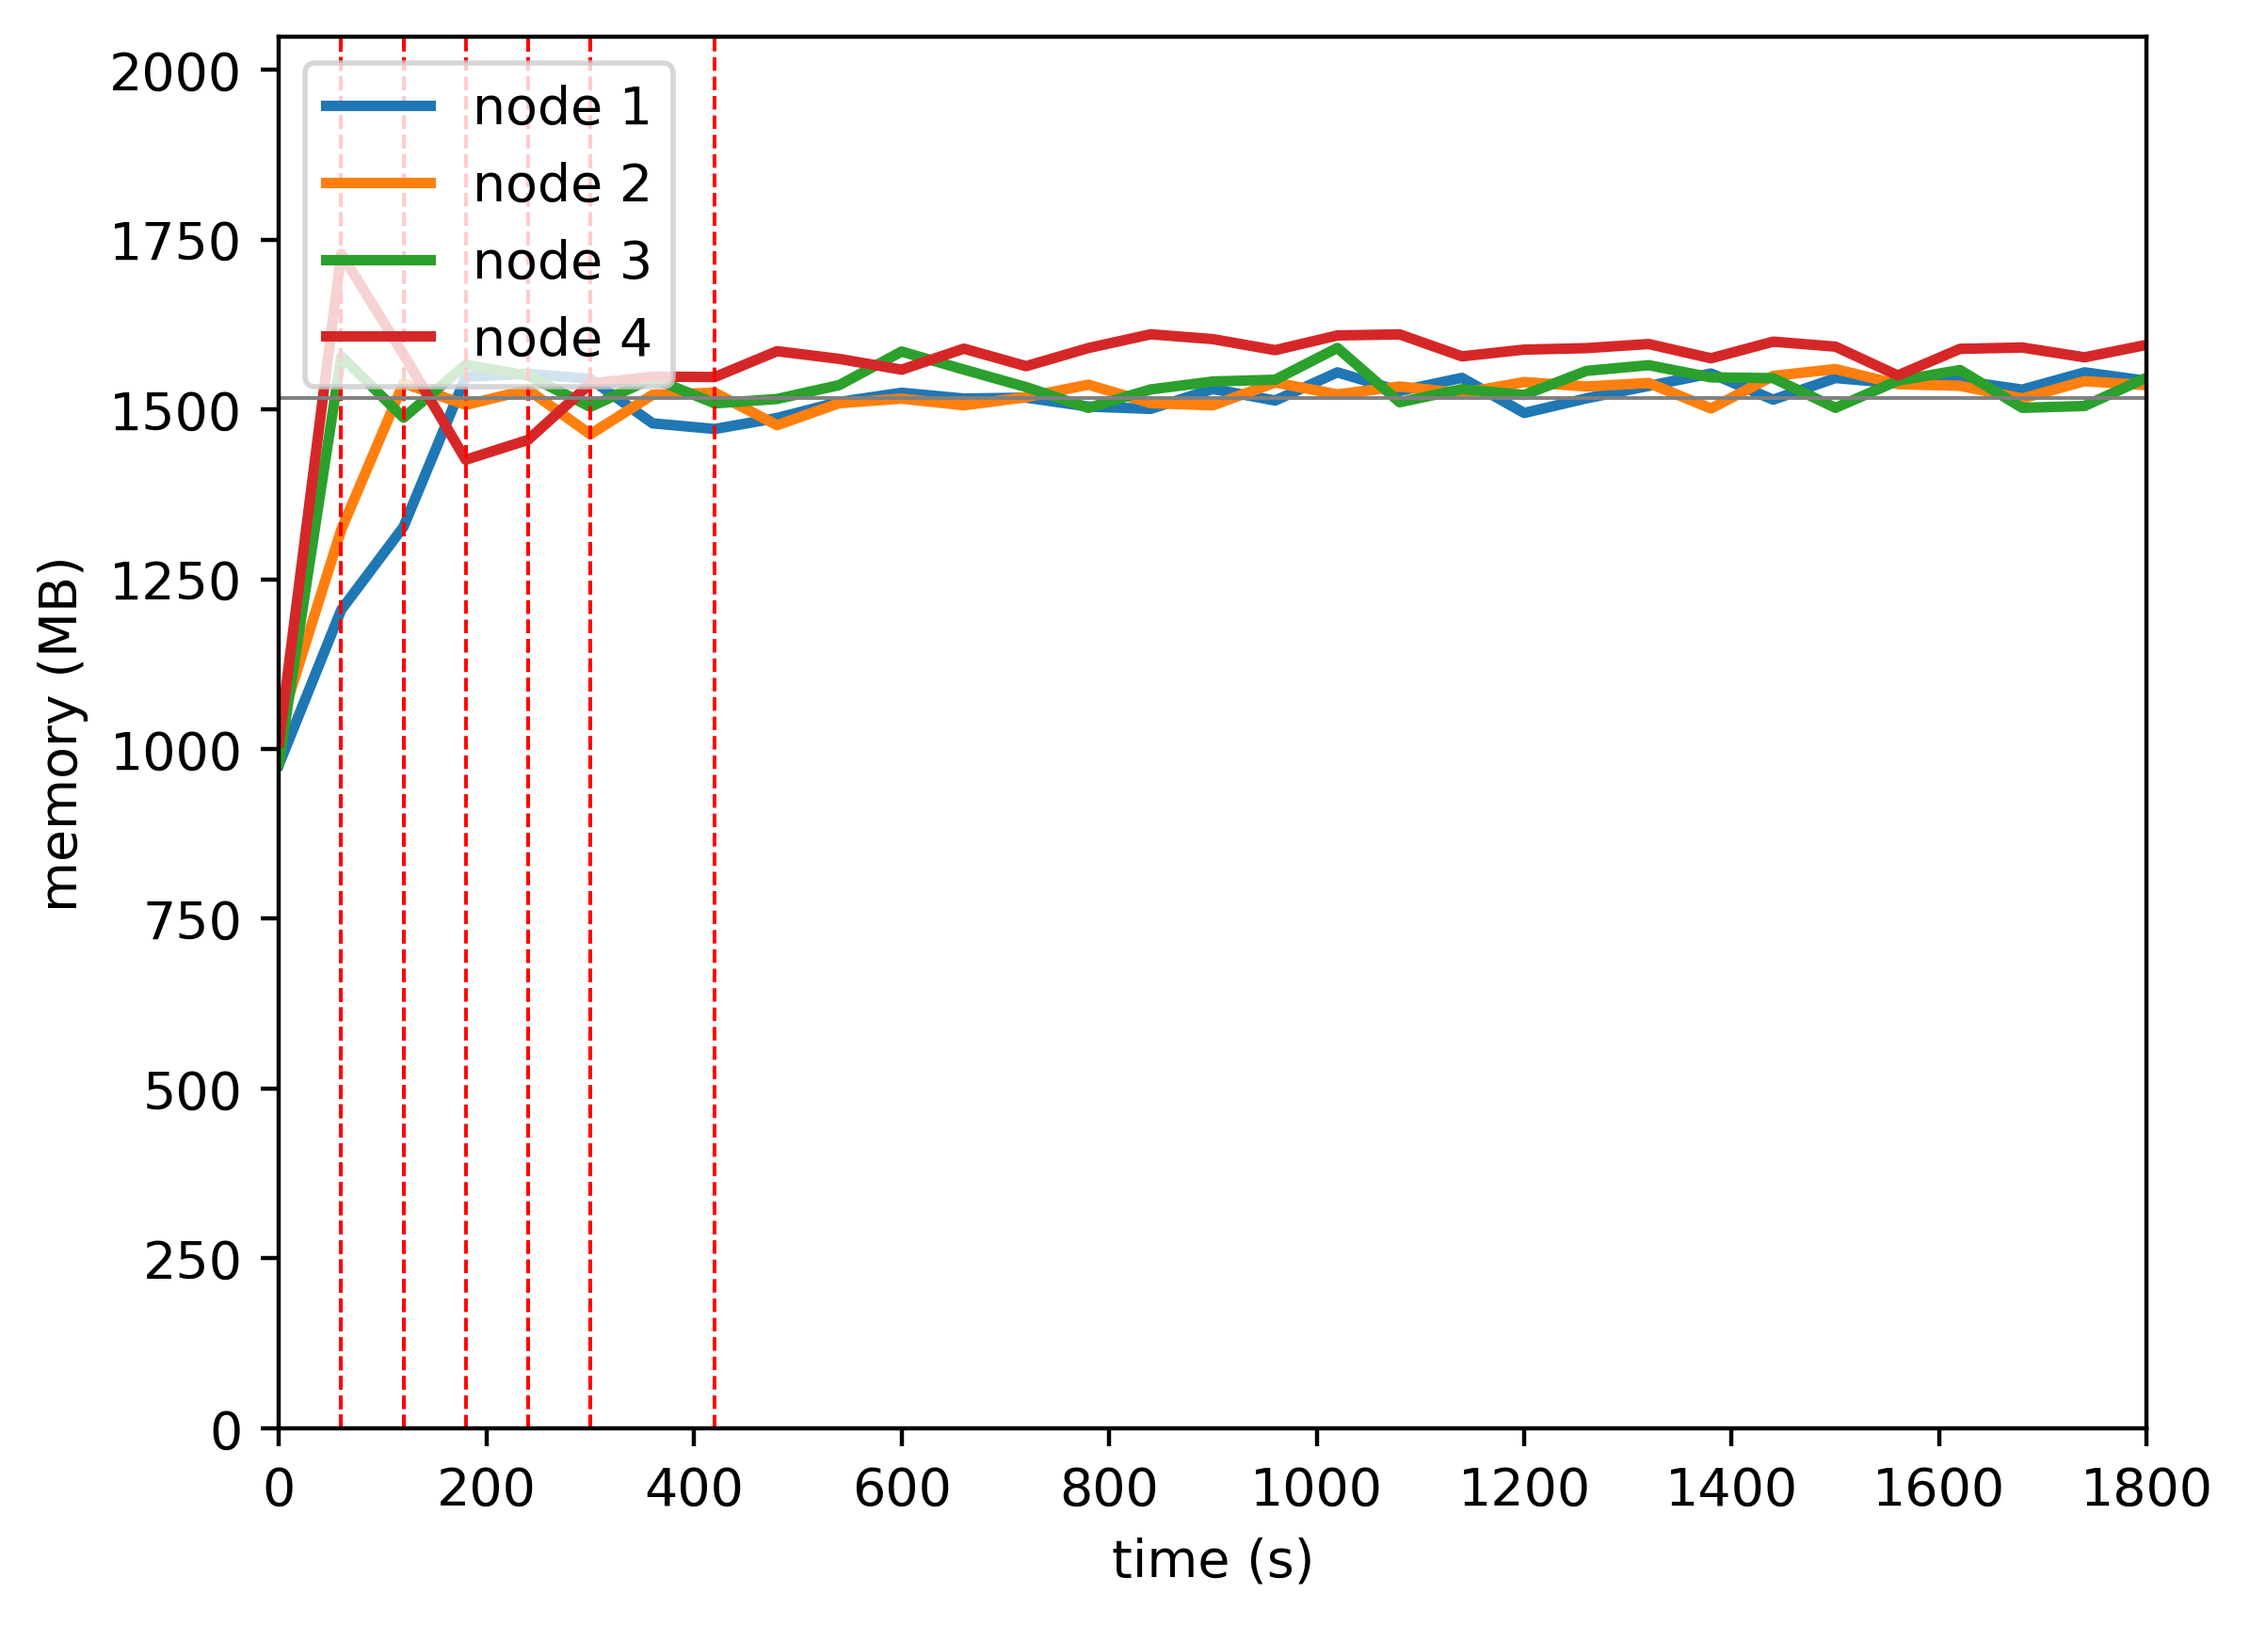
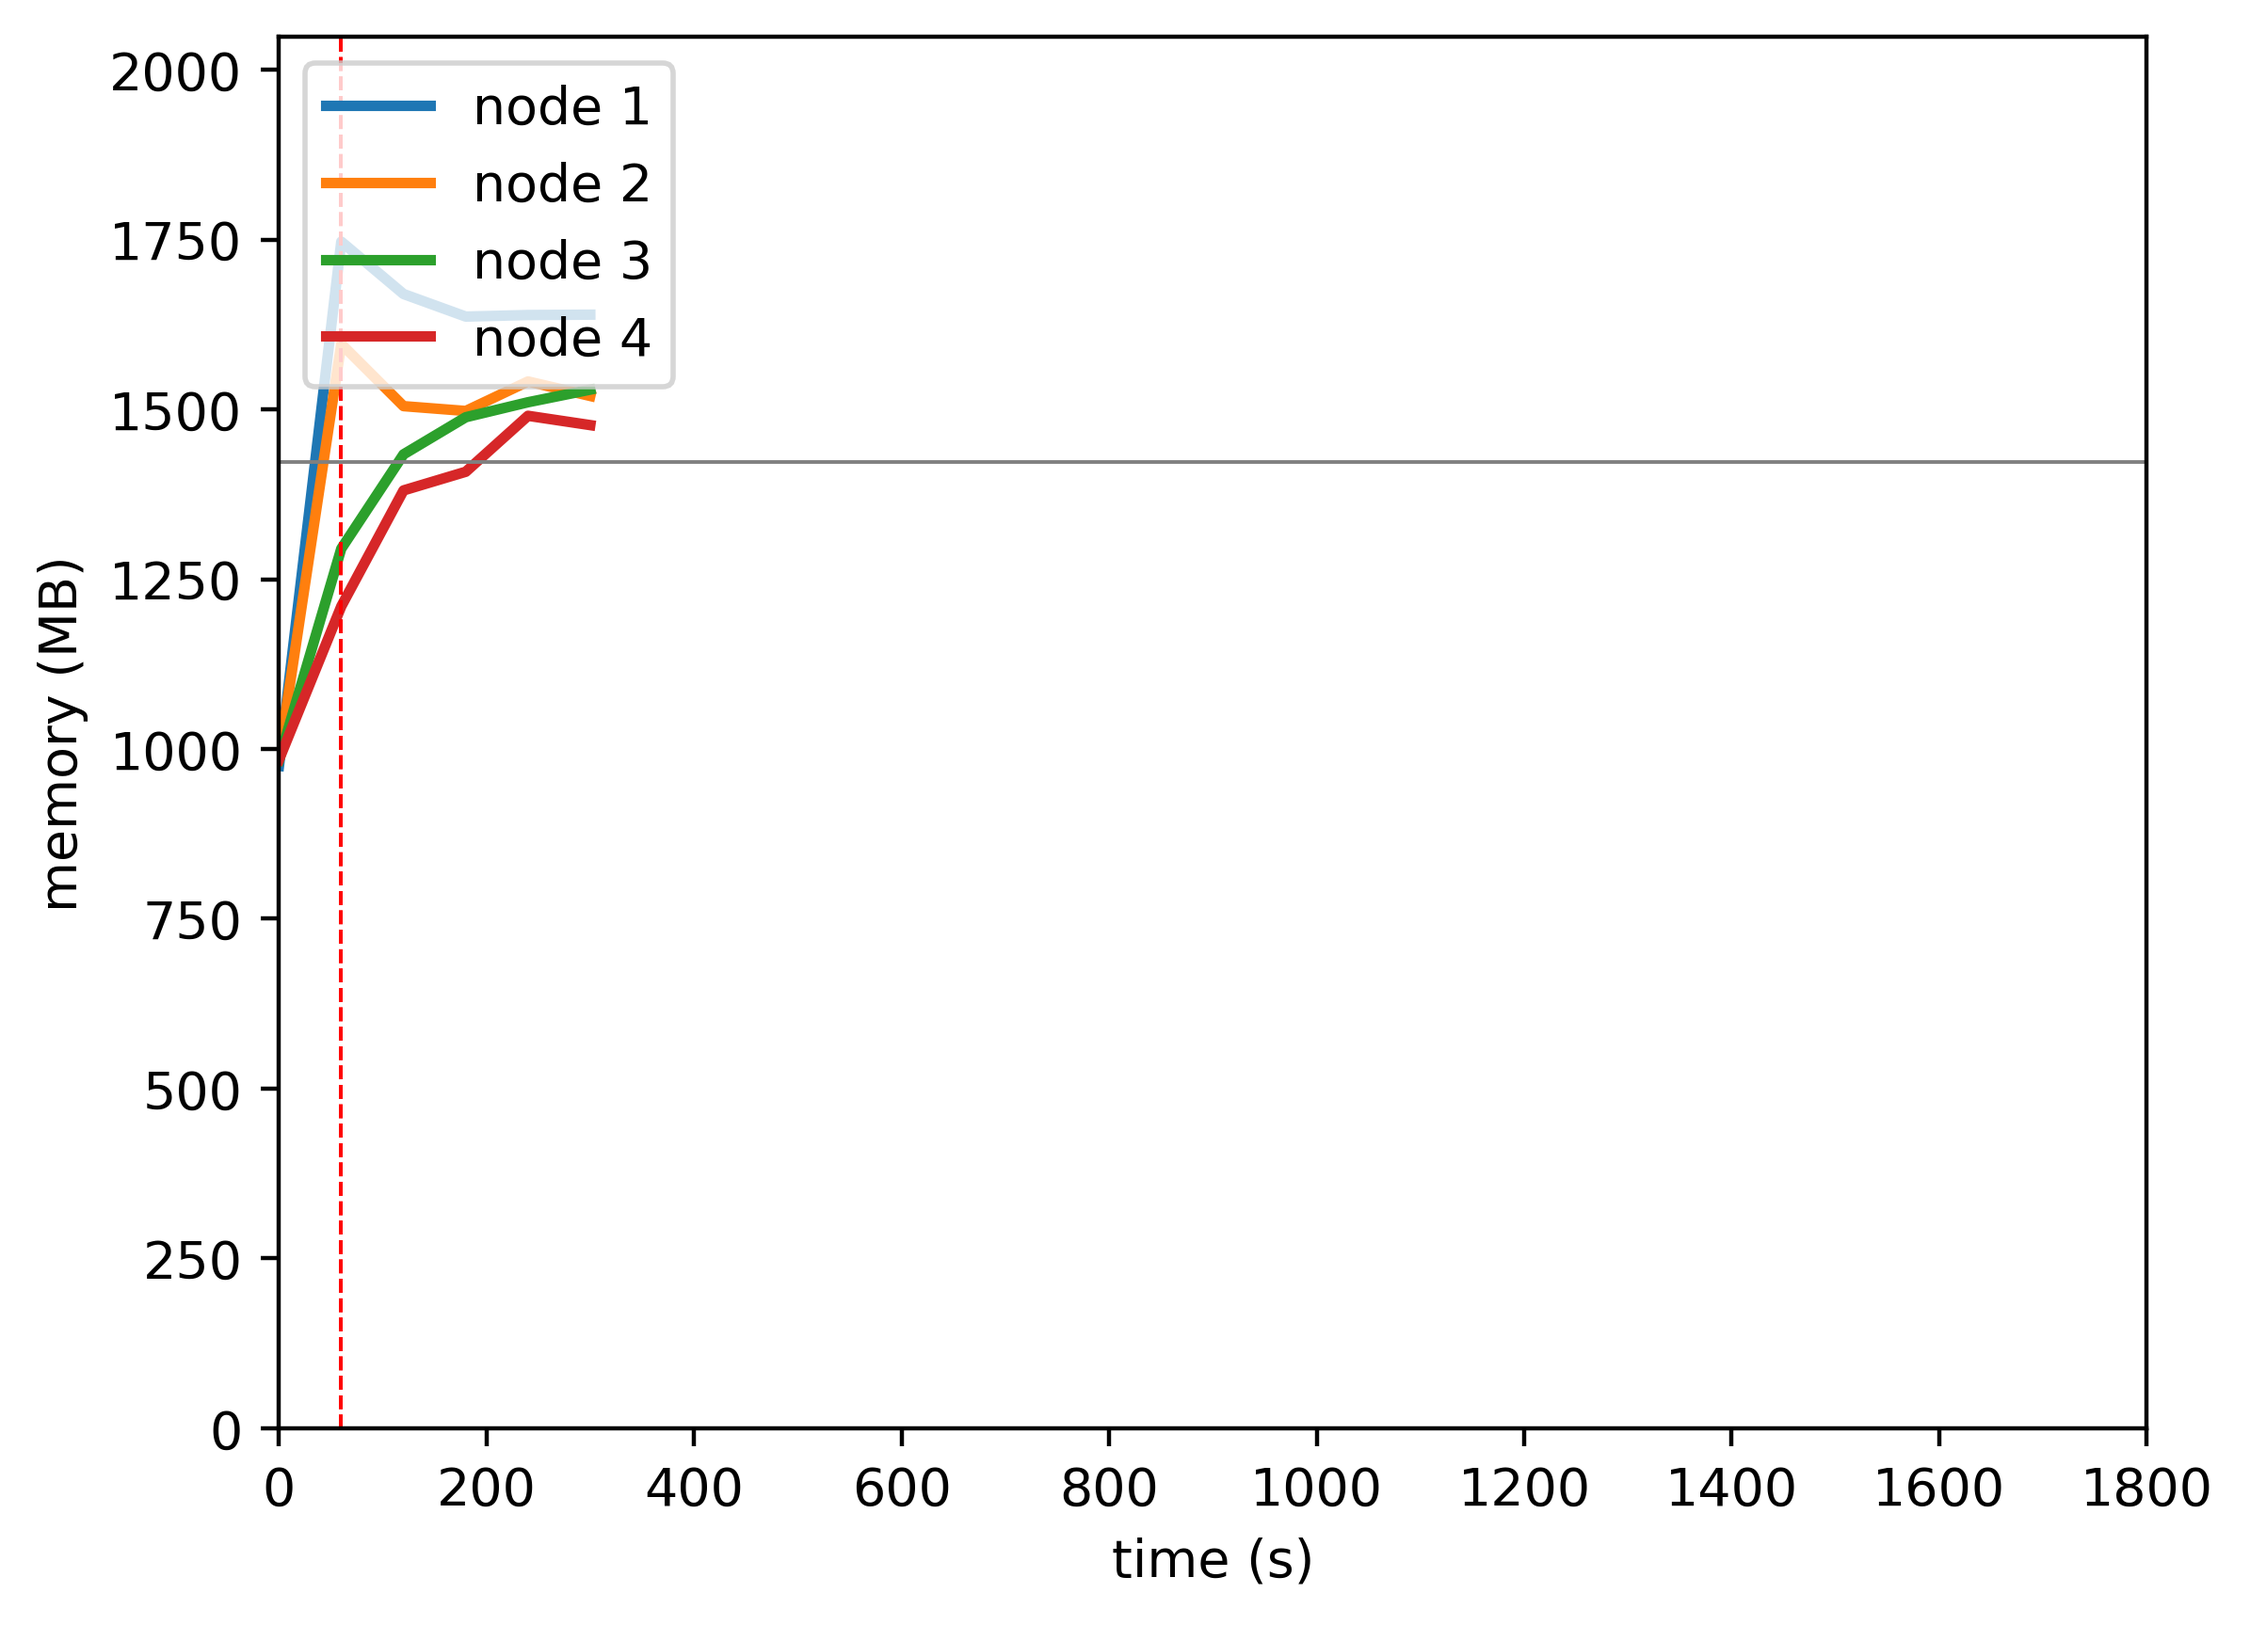
update

Changed region(s): [[0.1238, 0.1534, 0.9598, 0.4603]]

diff --git a/RefineLB.py b/RefineLB.py
@@ -13,18 +13,13 @@ COUNTER = 0
 METRIC = sys.argv[6]
 
 def get_refinelb_plan(processors):
-  print('------------------------------------')
-  print(processors[0]['usage'][METRIC])
-  print(processors[1]['usage'][METRIC])
-  print(processors[2]['usage'][METRIC])
-  print(processors[3]['usage'][METRIC])
   allocation_plan = {}
   heavyProcs = []
   lightProcs = []
   # calculating threshold
   procs_values = list(map(lambda n: n['usage'][METRIC], processors))
   procs_average = round(reduce(lambda x, y: x + y, procs_values) / len(procs_values), 0) 
-  margin = 1.003
+  margin = 1.05
   threshold = procs_average * margin
   # defining heavyProcs and lightProcs based on threshold
   for processor in processors:
@@ -36,37 +31,15 @@ def get_refinelb_plan(processors):
   finalProcs = []
   while len(heavyProcs) > 0:
     donor = heavyProcs.pop()
-    print('donor')
-    print(donor)
-    print('')
     for lightProc in lightProcs:
-      print('lightProc')
-      print(lightProc)
-      print('')
       pods_from_donor = donor['pods']
-      print('pods_from_donor')
-      print(pods_from_donor)
-      print('')
       pods_from_donor_sorted = sorted(list(map(lambda n: (n['usage'][METRIC], n['name']), pods_from_donor)), reverse=False)
-      #print(pods_from_donor_sorted)
-      print('donor_best_pod')
       donor_best_pod = pods_from_donor_sorted[0]
-      print(donor_best_pod)
-      print('')
-      print(donor_best_pod[0] + lightProc['usage'][METRIC])
-      print(procs_average)
-      print('')
       if donor_best_pod[0] + lightProc['usage'][METRIC] >= procs_average:
         continue
       # deassign best pod from donor
-      print('deassign')
-      print(donor_best_pod[1] + ' <-- ' + donor['name'])
       donor['pods'] = [d for d in donor['pods'] if d['name'] != donor_best_pod[1]]
-      print('')
-      print('assign')
-      print(donor_best_pod[1] + ' --> ' + lightProc['name'])
       lightProc['pods'].append({'name': donor_best_pod[1], 'usage': {METRIC: donor_best_pod[0]}})
-      print('')
       finalProcs.append(lightProc)
   for node in finalProcs:
     for pod in node['pods']:
